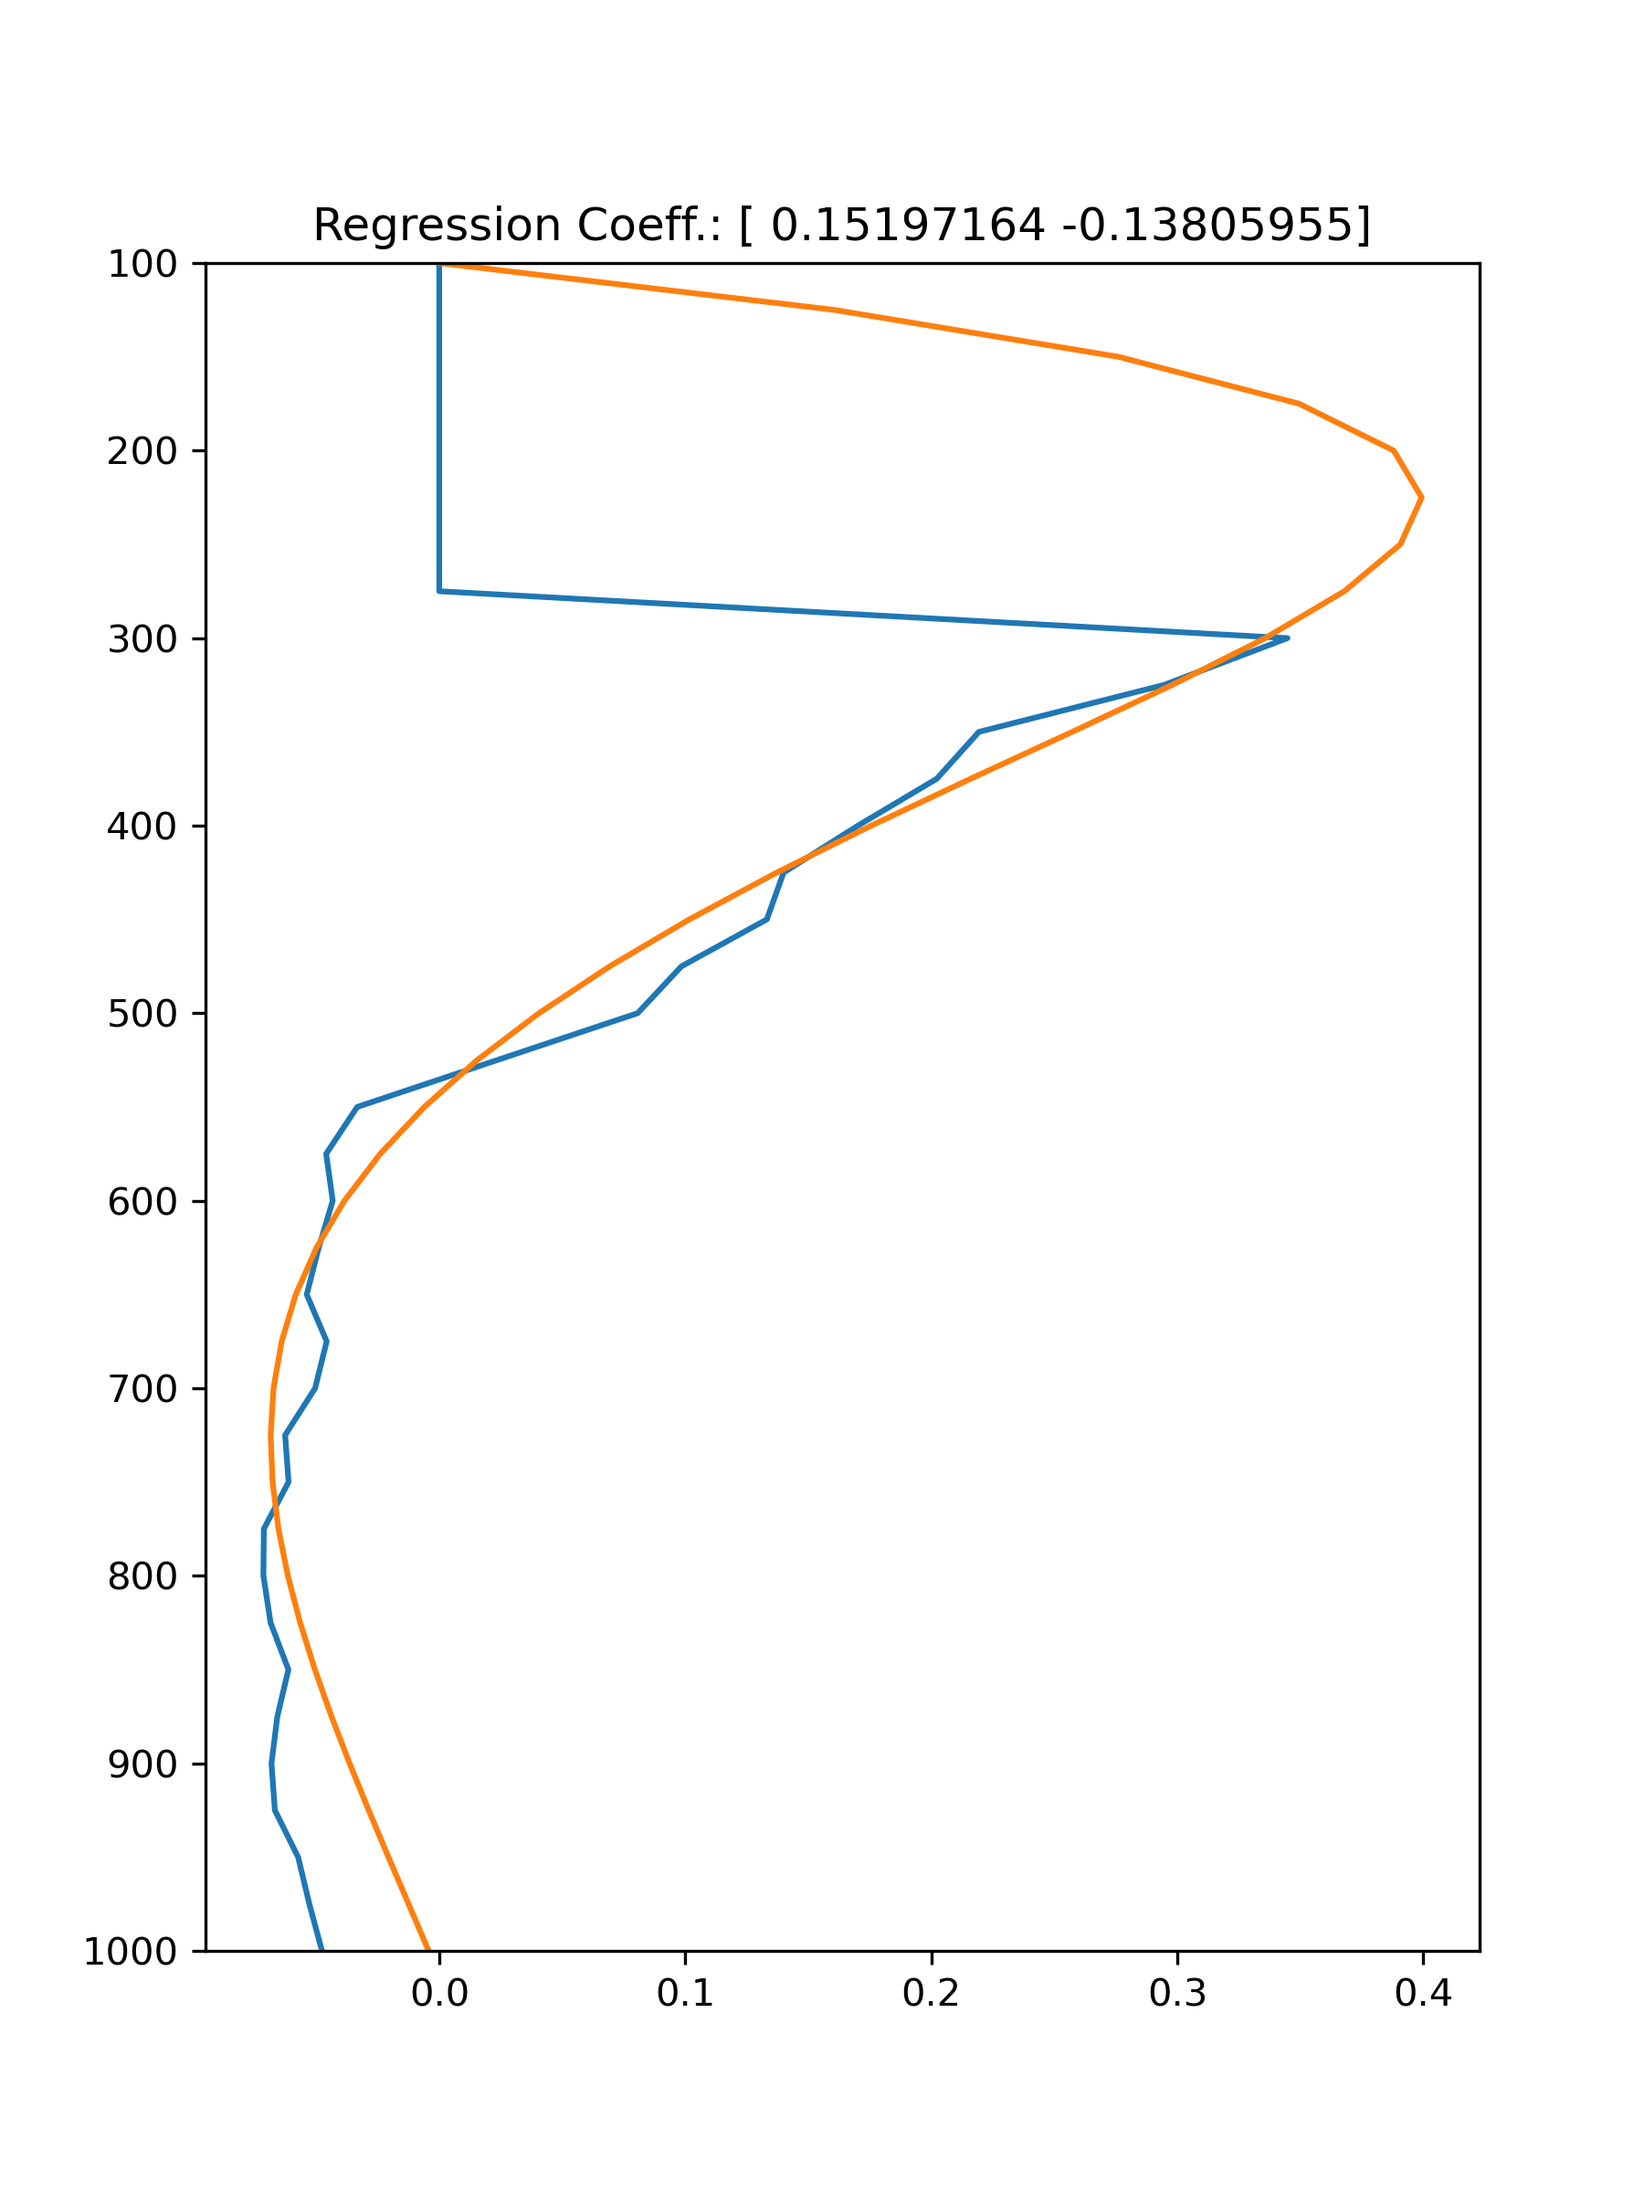
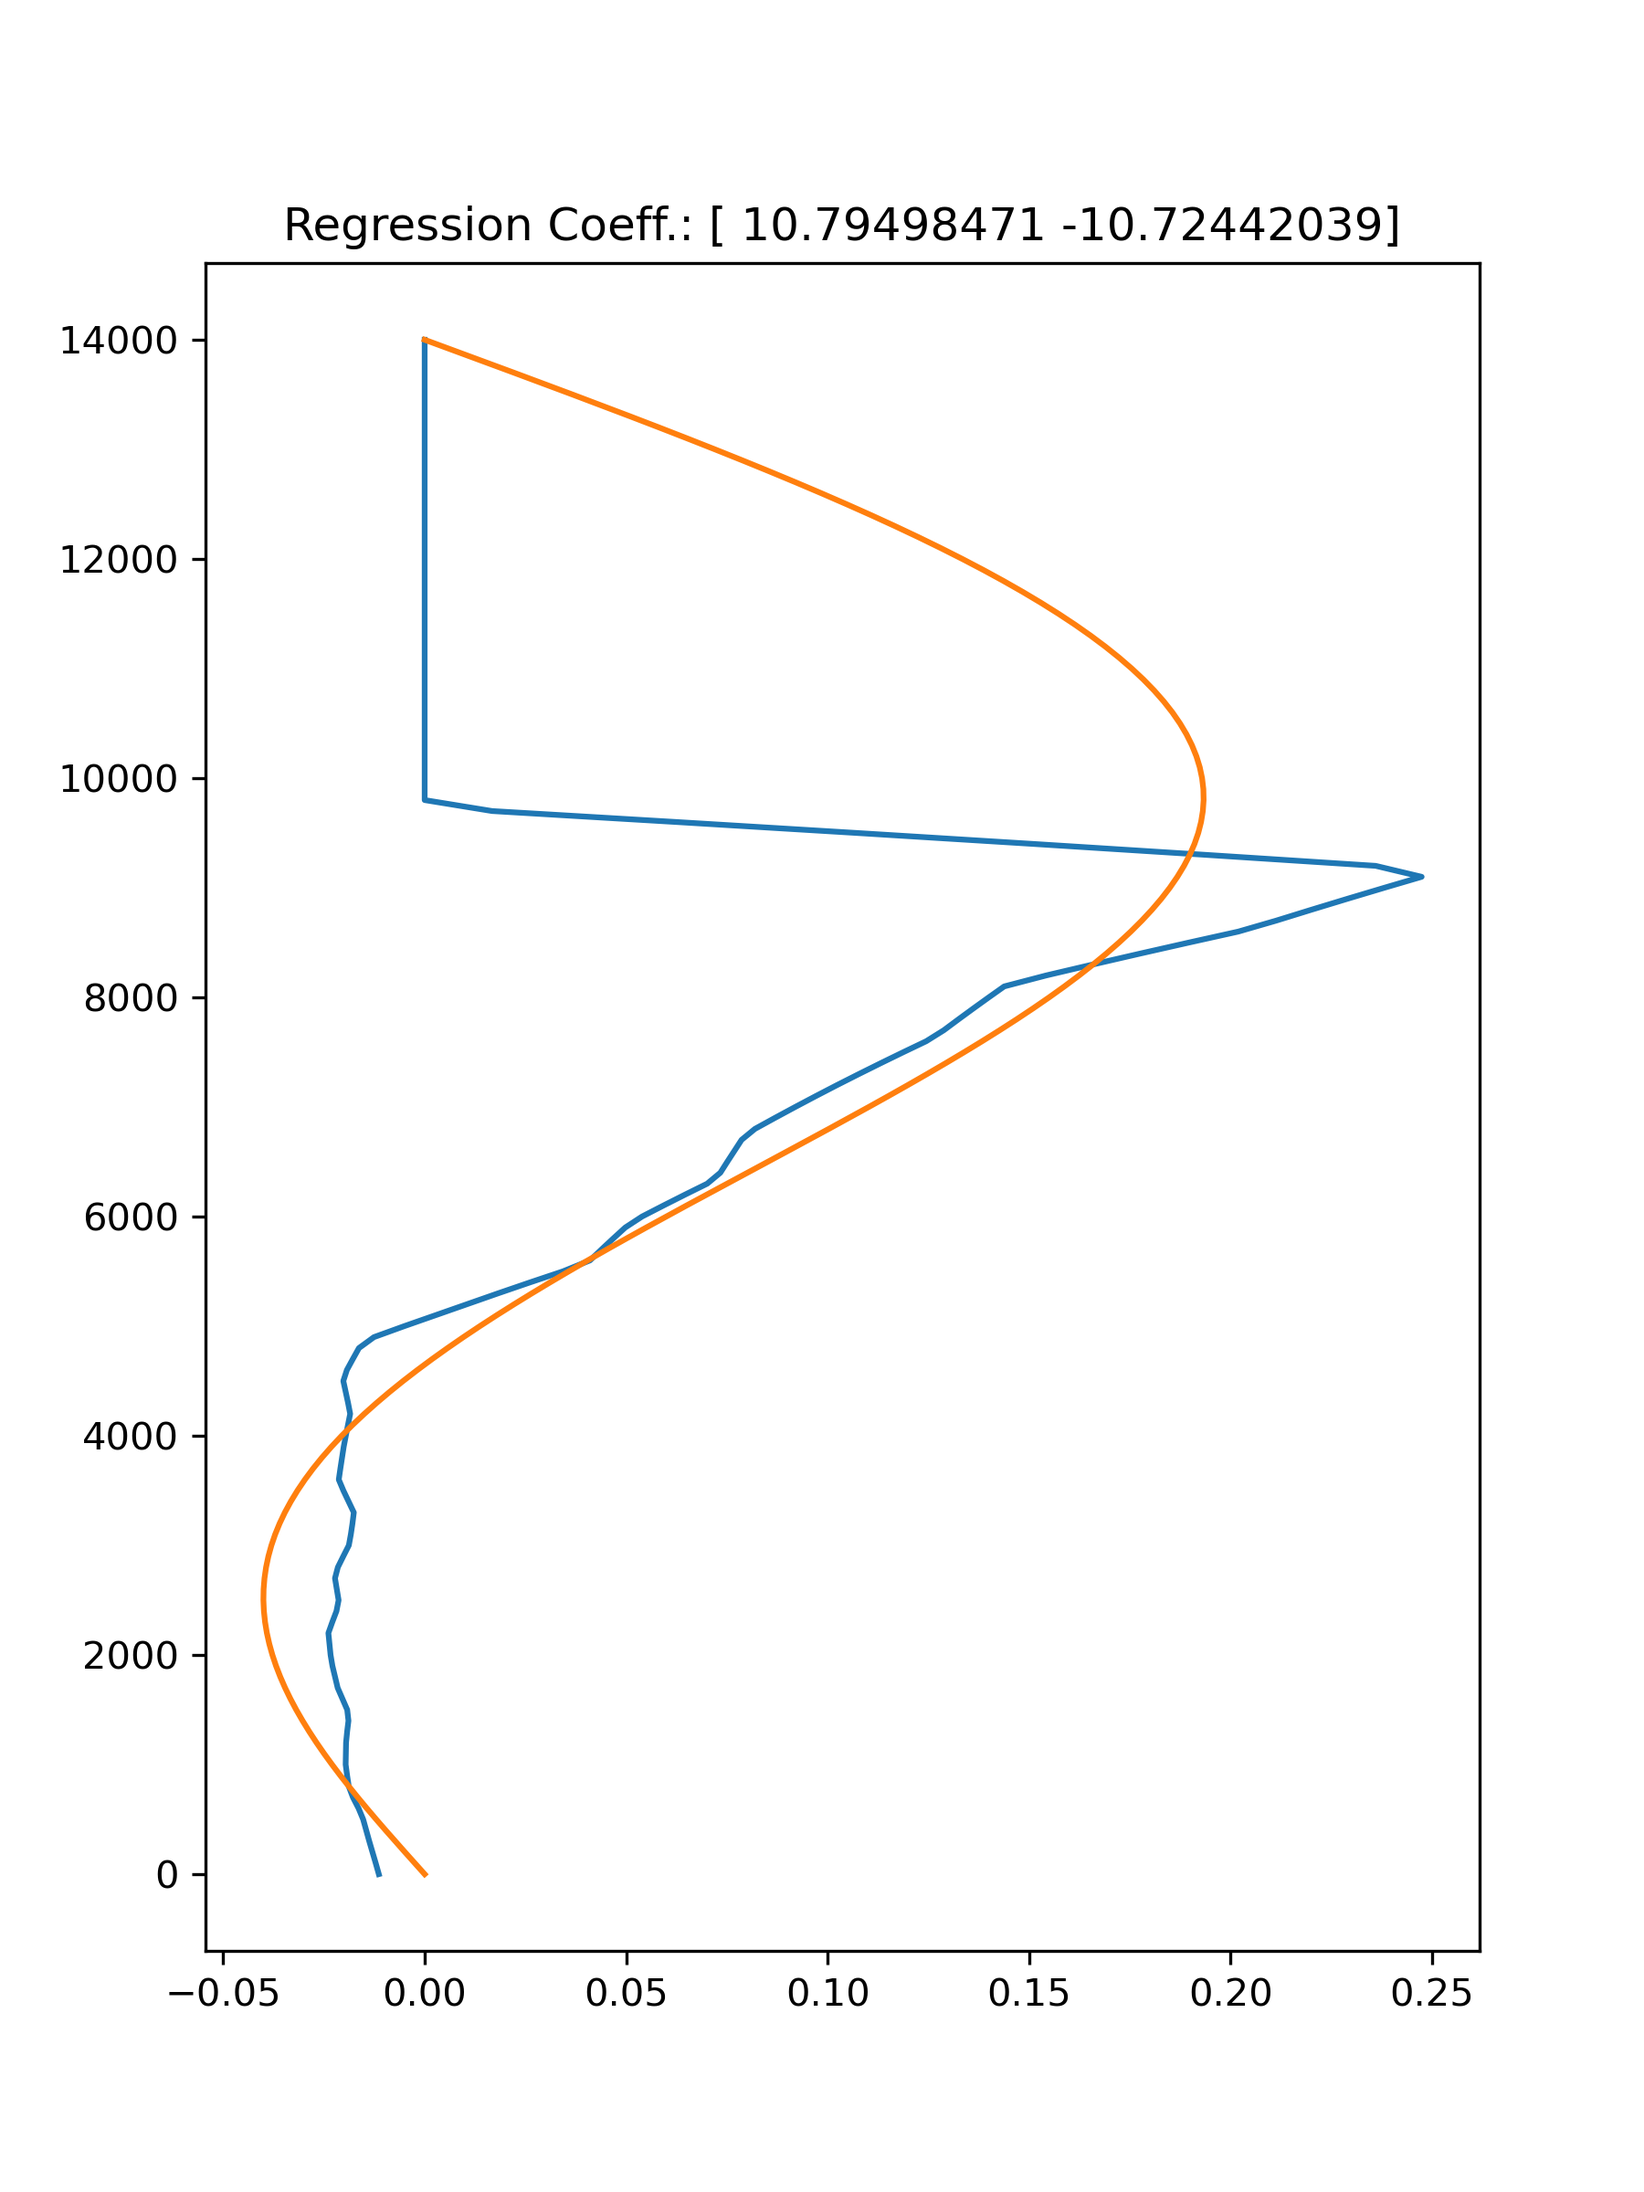
add relations between J1, J2, q

diff --git a/Code/LRF/Regress_rad.py b/Code/LRF/Regress_rad.py
@@ -6,6 +6,7 @@ import numpy as np;
 from metpy.units import units;
 from metpy.calc import pressure_to_height_std;
 from matplotlib import pyplot as plt;
+from scipy.interpolate import interp1d;
 
 def main():
     # ==== 1. load data ==== #
@@ -15,38 +16,52 @@ def main():
         lw = np.array(f.get("LW_pert")).squeeze();
         sw = np.array(f.get("SW_pert")).squeeze();
 
+    with h5py.File("/home/b11209013/2025_Research/MSI/File/bg_field.h5", "r") as f:
+        rho0 = np.array(f.get("ρ0")).squeeze();
+        z_itp = np.array(f.get("z")).squeeze()[::-1];
+
     # ==== 2. set up vertical normal modes ==== #
     levs = np.linspace(100, 1000, 37);
 
     lev_lim = np.argmin(np.abs(levs-300));
 
-    z = np.array(pressure_to_height_std(levs*units.hPa))*1000.0;
-    G1 = np.pi / 2.0 * np.sin(np.pi*z/z.max());
-    G2 = np.pi / 2.0 * np.sin(2*np.pi*z/z.max());
+    z         = np.array(pressure_to_height_std(levs*units.hPa))*1000.0;
+    z300      = z[lev_lim];
 
-    modes = np.stack([G1[lev_lim:], G2[lev_lim:]]);
+    G1 = np.pi / 2.0 * np.sin(np.pi*z_itp/z_itp.max())* 0.0065;
+    G2 = np.pi / 2.0 * np.sin(2*np.pi*z_itp/z_itp.max())* 0.0065;
 
-    lw_coeff = (np.array(lw[lev_lim:]) @ np.array(modes.T)) @ np.linalg.inv(np.array(modes)@np.array(modes.T));
-    sw_coeff = (np.array(sw[lev_lim:]) @ np.array(modes.T)) @ np.linalg.inv(np.array(modes)@np.array(modes.T));
+    modes = np.stack([G1[z_itp<=z300], G2[z_itp<=z300]], axis=0);
 
-    plt.figure(figsize=(6, 8))
-    plt.plot(lw, levs);
-    plt.plot(lw_coeff[0]*G1+lw_coeff[1]*G2, levs);
-    plt.title("Regression Coeff.: "+f"{lw_coeff}");
-    plt.ylim(1000, 100)
-    plt.savefig("/home/b11209013/2025_Research/MSI/Fig/Regress_rad_lw.png", dpi=300);
-    plt.show()
+    # ==== 3. interpolate lw and sw to z_itp_lim ==== #
+    lw_itp_func = interp1d(z, lw, kind="linear", fill_value="extrapolate");
+    sw_itp_func = interp1d(z, sw, kind="linear", fill_value="extrapolate");
 
-    plt.figure(figsize=(6, 8))
-    plt.plot(sw, levs);
-    plt.plot(sw_coeff[0]*G1+sw_coeff[1]*G2, levs);
-    plt.title("Regression Coeff.: "+f"{sw_coeff}");
-    plt.ylim(1000, 100)
-    plt.savefig("/home/b11209013/2025_Research/MSI/Fig/Regress_rad_sw.png", dpi=300);
-    plt.show()
+    lw_itp = lw_itp_func(z_itp);
+    sw_itp = sw_itp_func(z_itp);
 
+    lw_coeff = (np.array((rho0*lw_itp)[z_itp<=z300]) @ np.array(modes.T)) @ np.linalg.inv(np.array(modes)@np.array(modes.T));
+    sw_coeff = (np.array((rho0*sw_itp)[z_itp<=z300]) @ np.array(modes.T)) @ np.linalg.inv(np.array(modes)@np.array(modes.T));
 
-
+    plt.figure(figsize=(12, 16))
+    plt.plot(rho0*lw_itp, z_itp, color="k", label="LW");
+    plt.plot(rho0*sw_itp, z_itp, color="b", label="SW");
+    plt.plot(lw_coeff[0]*G1+lw_coeff[1]*G2, z_itp, "k--", label="LW Regress");
+    plt.plot(sw_coeff[0]*G1+sw_coeff[1]*G2, z_itp, "b--", label="SW Regress");
+    plt.legend(fontsize=18);
+    plt.xlabel("ρ0 * Radiative Heating Anomaly (K kg m$^{-3}$)", fontsize=20);
+    plt.ylabel("Height (m)", fontsize=20);
+    plt.xticks(fontsize=18);
+    plt.yticks(fontsize=18);
+    plt.xlim(-0.7, 0.7);
+    plt.ylim(0, 15000);
+    plt.title("Regression of Radiative Heating Anomaly", fontsize=28);
+    plt.ylim(0, 15000);
+    plt.text(-0.6, 500, "LW Regression Coeff.: \n"+f"{lw_coeff}", fontsize=18);
+    plt.text(-0.6, 5000, "SW Regression Coeff.: \n"+f"{sw_coeff}", fontsize=18);
+    plt.grid()
+    plt.savefig("/home/b11209013/2025_Research/MSI/Fig/Regress_rad.png", dpi=300);
+    plt.close();
 
 if __name__ == "__main__":
     main();

diff --git a/Code/ERA5_check/gammaq.py b/Code/ERA5_check/gammaq.py
@@ -1,0 +1,87 @@
+# This program is to compute relations of J1, J2, q
+
+##############################
+# 1. import package
+##############################
+
+import os;
+import numpy as np;
+import xarray as xr;
+import matplotlib.pyplot as plt;
+
+##############################
+# 2. main function
+##############################
+
+def main():
+    # ==== 1. read data ==== #
+    base_path = "/work/b11209013/2024_Research/ERA5/"
+
+    # load Q1
+    with xr.open_dataset(os.path.join(base_path, "Q1/Q1.nc")) as ds:
+        q1 = ds["Q1"].sel(lon=slice(160, 260)).isel(time=slice(None, 4000)).mean(dim="lat")*86400/1004.5;
+
+    # load q
+    with xr.open_dataset(os.path.join(base_path, "q/q.nc")) as ds:
+        print(ds.plev.values)
+        q = ds["q"].sel(lon=slice(160, 260)).isel(time=slice(None, 4000), plev=1).mean(dim="lat")*1000;
+
+    # load z grid
+    with xr.open_dataset(os.path.join(base_path, "z/z_2006.nc")) as ds:
+        z = ds["z"].sel(lat=slice(-10, 10)).mean(dim={"time","lat","lon"});
+
+    q1 -= q1.mean(dim={"time", "lon"});
+    q  -= q.mean(dim={"time", "lon"});
+
+    # ==== 2. compute vertical modes ==== #
+    G1 = np.pi/2 * np.sin(np.pi*z/z.max());
+    G2 = np.pi/2 * np.sin(2*np.pi*z/z.max());
+
+    vert_mode = np.stack([G1, G2], axis=0); # (2, nz)
+
+    # ==== 3. project Q1 onto vertical modes ==== #
+    q1_trans = np.transpose(q1.values, (1, 0, 2)).reshape(q1.shape[1], -1); # (nz, nt*nlon)
+
+    q1_proj = (q1_trans.T @ vert_mode.T) @ np.linalg.inv(vert_mode @ vert_mode.T); # (nt*nlon, 2)
+    q1_proj = q1_proj.T.reshape(2, q1.shape[0], q1.shape[2]); # (2, nt, nlon)
+
+
+    # ==== 4. plot out relations between q1 and q ==== #
+
+    plt.figure(figsize=(8, 6))
+    plt.scatter(q.values.flatten(), q1_proj[0].flatten(), color="b", s=1, alpha=0.5)
+    plt.xlabel("q (g/kg)")
+    plt.ylabel("J1 (K/day)")
+    plt.title("Relation between J1 and q")
+    plt.axhline(0, color='k', linestyle='--')
+    plt.axvline(0, color='k', linestyle='--')
+    plt.savefig("/home/b11209013/2025_Research/MSI/Fig/J1_q_relation.png", dpi=300)
+    plt.close()
+
+    plt.figure(figsize=(8, 6))
+    plt.scatter(q.values.flatten(), q1_proj[1].flatten(), color="b", s=1, alpha=0.5)
+    plt.xlabel("q (g/kg)")
+    plt.ylabel("J2 (K/day)")
+    plt.title("Relation between J2 and q")
+    plt.axhline(0, color='k', linestyle='--')
+    plt.axvline(0, color='k', linestyle='--')
+    plt.savefig("/home/b11209013/2025_Research/MSI/Fig/J2_q_relation.png", dpi=300)
+    plt.close()
+
+    plt.figure(figsize=(8, 6))
+    plt.scatter(q1_proj[0].flatten(), q1_proj[1].flatten(), color="b", s=1, alpha=0.5)
+    plt.xlabel("J1 (K/day)")
+    plt.ylabel("J2 (K/day)")
+    plt.title("Relation between J2 and J1")
+    plt.axhline(0, color='k', linestyle='--')
+    plt.axvline(0, color='k', linestyle='--')
+    plt.savefig("/home/b11209013/2025_Research/MSI/Fig/J1_J2_relation.png", dpi=300)
+    plt.close()
+
+
+###############################
+# 3. execute main function
+###############################
+
+if __name__ == "__main__":
+    main();
